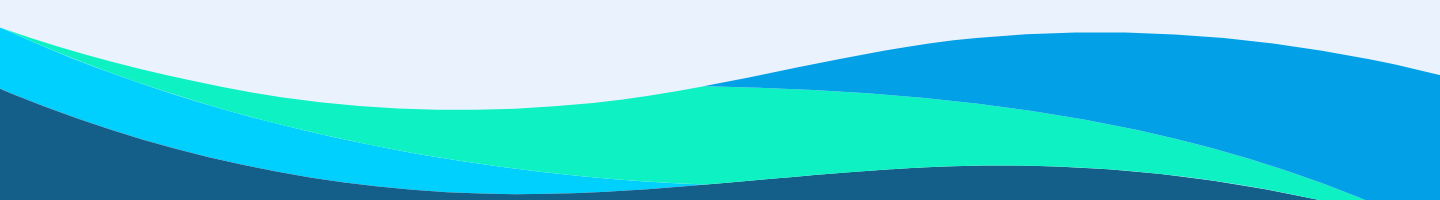
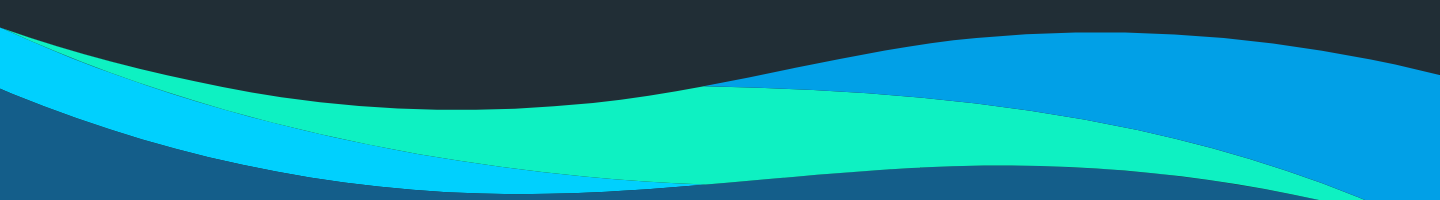
Ajustando estilos de color en el diseño

diff --git a/index.html b/index.html
@@ -33,6 +33,7 @@
     <link rel="stylesheet" href="assets/css/formularioContacto/formulario.css">
     <link rel="stylesheet" href="assets/css/boton/boton.css">
     <link rel="stylesheet" href="assets/css/seccionFooter/seccionFooter.css">
+    <link rel="icon" href="./assets/img/iconos/logo_personal.png">
     <title>Portafolio | Julián Andrés Montes García</title>
 </head>
 
@@ -41,7 +42,7 @@
     <header class="header-principal font-style">
         <div class="header-principal__container">
             <div class="logo-container">
-                <a class="logo-container__link" href="#inicio" title="Ir al inicio" tabindex="0">
+                <a class="logo-container__link" href="./index.html" title="Ir al inicio" tabindex="0">
                     <img class="logo-container__logo" src="./assets/img/iconos/logo_personal.png"
                         alt="Logo Personal de Julián">
                 </a>
@@ -113,8 +114,7 @@
                 </div>
                 <div class="datos-personales">
                     <div class="datos-personales__presentacion">
-                        <h1 class="datos-personales__titulo" tabindex="0">Soy Julián Andrés Montes García, desarrollo
-                            páginas web desde el frontend.
+                        <h1 class="datos-personales__titulo" tabindex="0">Soy <br><span>Julián Andrés Montes García,</span>desarrollo páginas web desde el frontend.
                         </h1>
                         <p class="datos-personales__parrafo tamaño-parrafos" tabindex="0">
                             Soy egresado de la Universidad de Caldas en el proyecto Misión TIC, actualmente soy parte
@@ -125,13 +125,13 @@
                             <li class="datos-personales__contacto">
                                 <a class="datos-personales__link" href="https://github.com/JuliMontes" target="_blank"
                                     title="Ir a GitHub de Julián Andrés Montes García" tabindex="0">
-                                    <div class="datos-personales__icono datos-personales__icono--github"></div>
+                                    <i class="datos-personales__icono fa-brands fa-github"></i>
                                 </a>
                             </li>
                             <li class="datos-personales__contacto">
                                 <a class="datos-personales__link" href="https://www.linkedin.com/in/julian-andres-mg/"
                                     target="_blank" title="Ir a LinkedIn de Julián Andrés Montes García" tabindex="0">
-                                    <div class="datos-personales__icono datos-personales__icono--linkedin"></div>
+                                    <i class="datos-personales__icono fab fa-linkedin"></i>
                                 </a>
                             </li>
                             <li class="datos-personales__contacto">
@@ -418,8 +418,10 @@
                 <div class="seccion-footer__datos">
                     <p class="seccion-footer__autor" tabindex=0>Desarrollado por <span>Julián Andrés Montes
                             García</span> &#169; 2023</p>
-                    <img class="logo-container__logo" src="./assets/img/iconos/logo_personal.png"
-                        alt="Logo Personal de Julián" tabindex=0>
+                    <a class="logo-container__link" href="./index.html" title="Ir al inicio" tabindex="0">
+                        <img class="logo-container__logo" src="./assets/img/iconos/logo_personal.png"
+                            alt="Logo Personal de Julián">
+                    </a>
                 </div>
                 <div class="seccion-footer__agradecimientos">
                     <p class="seccion-footer__parrafo" tabindex=0>Agradecimientos a:</p>

diff --git a/assets/css/datosPersonales/datosPersonales.css b/assets/css/datosPersonales/datosPersonales.css
@@ -25,16 +25,36 @@ del contenedor acorde a la del header de escritorio*/
 
 /*Estableciendo color de letra y tamaño*/
 .datos-personales__titulo {
-    color: #2c2828;
+    color: var(--font-color);
     font-size: var(--tamañoLetraEscritorio-titulos);
     font-weight: 700;
     margin-bottom: 0;
 }
 
+/*Estableciendo el efecto máquina de escribir o typing*/
+.datos-personales__titulo span {
+    display: block;
+    white-space: nowrap;
+    border-right: 4px solid;
+    width: 25ch;
+    animation: typing 12s steps(25) infinite,
+    blink .5s infinite step-end alternate;
+    overflow: hidden;
+}
+
+/*Estableciendo animaciones para el efecto máquina de escribir o typing*/
+@keyframes typing {
+    from { width: 0;}
+}
+
+@keyframes blink {
+    50% { border-color: transparent;}
+}
+
 /*Estableciendo color de letra, tamaño,
 subiendo parrafo un poco*/
 .datos-personales__parrafo {
-    color: #2c2828;
+    color: var(--font-color-two);
     /*#2c2828*/
     font-size: var(--tamañoLetraEscritorio-subtitulosDscImagen);
     font-weight: 500;
@@ -73,22 +93,17 @@ filas, el ancho es heredado de .datos-personales__presentacion*/
 
 /*Despegando icono de texto y asignando ancho y alto de 13px*/
 .datos-personales__icono {
-    height: 2.5em;
-    width: 2.5em;
+    height: 3rem;
+    width: 3rem;
+    color: var(--color-fondo-burbujas);
+    text-align: center;
+    align-self: center;
+    font-size: 3rem;
 }
 
 /*Configurando selector flag para iconos de contacto*/
-.datos-personales__icono--github {
-    background: url("../../img/iconos/contacto/github.png") no-repeat center / cover;
-}
-
-.datos-personales__icono--linkedin {
-    background: url("../../img/iconos/contacto/linkedin.png") no-repeat center / cover;
-}
-
 .datos-personales__icono--curriculum {
-    background: url("../../img/iconos/contacto/curriculum.png") no-repeat center / cover;
-    background-color: #fff;
+    background: url("../../img/iconos/contacto/curriculum_vitae.png") no-repeat center / cover;
 }
 
 /*Estableciendo tamaño de foto y radio circular*/

diff --git a/assets/css/formularioContacto/formulario.css b/assets/css/formularioContacto/formulario.css
@@ -10,13 +10,14 @@ margen superior a etiqueta legend de 1px*/
     font-weight: 500;
     margin: 0 0 2em 0;
     line-height: 2em;
+
 }
 
 /*Configurando estilos de input containers*/
 .formulario__campos {
-    background: #ffffff;
+    background: var(--color-fondo-primario);
     border: 0 0 1px 0;
-    border-bottom: solid 1px #C8C8C8;
+    border-bottom: solid 1px var(--color-botones-primario);
     border-radius: 4px;
     display: block;
     margin: 0 0 32px 0;
@@ -32,8 +33,8 @@ azul y linea solida inferior azul*/
 }
 
 .formulario__campos .formulario__label {
-    color: #5e4f4f;
-    font-size: 12px;
+    color: var(--font-color);
+    font-size: 14px;
     font-weight: 400;
 }
 
@@ -42,7 +43,8 @@ pueden agregarse numéricos*/
 .formulario__campo,
 .formulario__textarea {
     border: none;
-    color: var(--font-color);
+    background-color: var(--color-fondo-primario);
+    color: var(--font-color-two);
     display: block;
     font-weight: 400;
     height: 20px;
@@ -59,7 +61,7 @@ pueden agregarse numéricos*/
 /*Selector de clase flag para email, al hacer focus el color
 del texto y focus cambiarán a azul*/
 .formulario__campo--bluefocus:focus {
-    color: var(--color-botones-primario);
+    color: var(--color-fondo-primario);
 }
 
 /*Aplicando altura default a textarea y expansión

diff --git a/assets/css/seccionProyectos/seccionProyectos.css b/assets/css/seccionProyectos/seccionProyectos.css
@@ -84,7 +84,7 @@ y alineados al centro*/
     text-align: center;
     align-items: center;
     font-size: var(--tamañoLetraEscritorio-subtitulosSeccion);
-    color: #fff;
+    color: var(--font-color);
     transform: translateZ(60px);
 }
 
@@ -98,14 +98,14 @@ y alineados al centro*/
     transform-style: preserve-3d;
     border-radius: 20px;
     transform: rotateY(180deg);
-    background-color: #0B0614;
+    background-color: var(--color-fondo-secundario);
 }
 
 .tarjeta-trasera {
     padding: 25px;
     text-align: center;
     transform: translateZ(60px);
-    color: #fff;
+    color: var(--font-color);
 }
 
 .tarjeta-trasera input {
@@ -115,14 +115,15 @@ y alineados al centro*/
     font-weight: 400;
     cursor: pointer;
     border: none;
-    background: #58B0F6;
-    box-shadow: 1px 1px 30px -5px #58B0F6;
+    /* background: #58B0F6; */
+    background-color: var(--color-botones-primario);
+    box-shadow: 1px 1px 30px -5px var(--color-botones-primario);
     border-radius: 10px;
     transition: box-shadow 600ms;
 }
 
 .tarjeta-trasera input:hover {
-    box-shadow: 1px 1px 30px 0px #449de6;
+    box-shadow: 1px 1px 30px 0px var(--color-botones-primario);
 }
 
 

diff --git a/assets/css/style.css b/assets/css/style.css
@@ -10,17 +10,23 @@
     /*Tipografía*/
     --font-family: 'Raleway', sans-serif;
     /*Color de fuente*/
-    --font-color: #464646;
+    --font-color: #EFF3F5;
     /*Color de fuente secundaria*/
-    --font-color-two: #ffffff;
+    --font-color-two: #C8CDD0;
     /*Color de fondo principal*/
-    --color-fondo-primario: #F5F5F5;
-    /*Color de fuente secundario*/
-    --color-fondo-secundario: #EAF2FD;
+    --color-fondo-primario: #192229;
+    /*Color de fondo secundario*/
+    --color-fondo-secundario: #212e36;
+    /*Color de fondo tarjetas*/
+    --color-fondo-tarjetas: #212E36;
     /*Color primario boton*/
-    --color-botones-primario: #2A7AE4;
+    --color-botones-primario: #4fc3dc;
     /*Color primario icono*/
     --color-iconos-primario: #145e8a;
+    /*Color fondo primario burbujas*/
+    --color-fondo-burbujas: #4fc3dc;
+    /*Color fondo secundario burbujas*/
+    --color-fondo-burbujas-secundario: #4fdc69;
 
     /*<----Alncho y alto de foto---->*/
     /*368px*/
@@ -105,6 +111,7 @@
 html {
     color: var(--font-color);
     font-family: var(--font-family);
+    background-color: var(--color-fondo-primario);
     scroll-behavior: smooth;
 }
 

diff --git a/assets/css/seccionPresentacion.css b/assets/css/seccionPresentacion.css
@@ -38,22 +38,22 @@
     position: sticky;
     width: 30px;
     height: 30px;
-    background-color: #4fc3dc;
+    background-color: var(--color-fondo-burbujas);
     margin: 0 4px;
     border-radius: 50%;
     box-shadow: 0 0 0 10px #4fc3dc44,
-    0 0 50px #4fc3dc,
-    0 0 100px #4fc3dc;
+    0 0 50px var(--color-fondo-burbujas),
+    0 0 100px var(--color-fondo-burbujas);
     animation: animate 15s linear infinite;
     animation-duration: calc(125s / var(--i));
     z-index: 0;
 }
 
 .seccion-presentacion__fondo-burbujas span:nth-child(even) {
-    background-color: #4fdc69;
+    background-color: var(--color-fondo-burbujas-secundario);
     box-shadow: 0 0 0 10px #4fdc6944,
-    0 0 50px #4fdc69,
-    0 0 100px #4fdc69;
+    0 0 50px var(--color-fondo-burbujas-secundario),
+    0 0 100px var(--color-fondo-burbujas-secundario);
 }
 
 @keyframes animate {

diff --git a/assets/css/boton/boton.css b/assets/css/boton/boton.css
@@ -7,7 +7,7 @@ con color secundario, padding de 16px y transición*/
     background: transparent;
     border: solid 0.1em var(--color-botones-primario);
     font-size: var(--tamañoLetraEscritorio-parrafosYLinks-dscImagen-botones);
-    font-weight: 400;
+    font-weight: 600;
     margin: 0 auto;
     padding: 1em;
     text-decoration: none;
@@ -43,9 +43,11 @@ pasar el puntero
 /*Selector de cambio para deshabilitar el puntero, con fondo
 y borde gris acorde a la WCAG*/
 .boton--bloqueado[type="submit"] {
-    background: #4e4b4b;
-    border: solid 0.1em #4e4b4b;
+    background: var(--color-fondo-primario);
+    border: solid 0.1em var(--color-fondo-primario);
     pointer-events: none;
+    color: var(--font-color-two);
+    font-weight: 400;
 }
 
 /*Tablets y celulares grandes u horizontales*/

diff --git a/assets/css/seccionFooter/seccionFooter.css b/assets/css/seccionFooter/seccionFooter.css
@@ -28,12 +28,14 @@ con un espacio entre ellos, padding de 32px*/
 
 /*Agregando peso a letra*/
 .seccion-footer__autor {
-    color: #2c2828;
+    /* color: #2c2828; */
+    color: var(--font-color-two);
     font-weight: 500;
 }
 
 .seccion-footer__autor span {
     font-weight: 700;
+    color: var(--font-color);
 }
 
 /*Condigurando container flex*/
@@ -97,5 +99,9 @@ con un espacio entre ellos, padding de 32px*/
     /*Cambiando dirección flex a columna*/
     .seccion-footer__agradecimientos {
         width: 100%;
+    }
+    
+    .seccion-footer__parrafo {
+        color: var(--font-color-two);
     }
 }

diff --git a/assets/css/container.css b/assets/css/container.css
@@ -6,7 +6,6 @@ en el modo responsive exceptuando al header*/
     margin: var(--centrar-con-margin);
     max-width: var(--tamaño-containerMaxWidth);
     width: 100%;
-    /*heigth: inherit*/
 }
 
 /*Tablets y celulares grandes u horizontales*/
@@ -16,7 +15,7 @@ en el modo responsive exceptuando al header*/
     }
 
     .container-presentacion {
-        margin-top: 80px;
+        margin-top: 20px;
     }
 }
 

diff --git a/assets/css/listaGrid/listaGrid.css b/assets/css/listaGrid/listaGrid.css
@@ -14,7 +14,7 @@ solo una sola fila con grid-template-rows*/
 de 16px, elemento li con altura de 174px.
 Aplicando border shadow y border radius*/
 .lista-grid__item {
-    background-color: #FFFFFF;
+    background-color: var(--color-fondo-tarjetas);
     box-shadow: 9px 9px 9px 2px rgba(0, 0, 0, 0.4);
     display: flex;
     flex-direction: column;

diff --git a/assets/css/seccionSkills/seccionSkills.css b/assets/css/seccionSkills/seccionSkills.css
@@ -30,7 +30,7 @@ y alineados al centro*/
 .skills__icono {
     width: 3rem;
     height: 3rem;
-    color: var(--color-iconos-primario);
+    color: var(--color-fondo-burbujas);
     font-size: 3rem;
     margin-bottom: 0.3125rem;
 }

diff --git a/assets/css/seccionHobbies/seccionHobbies.css b/assets/css/seccionHobbies/seccionHobbies.css
@@ -30,7 +30,7 @@ y alineados al centro*/
 .hobbies__icono {
     width: 3rem;
     height: 3rem;
-    color:var(--color-iconos-primario);
+    color:var(--color-fondo-burbujas);
     font-size: 3rem;
     margin-bottom: 0.3125rem;
 }
